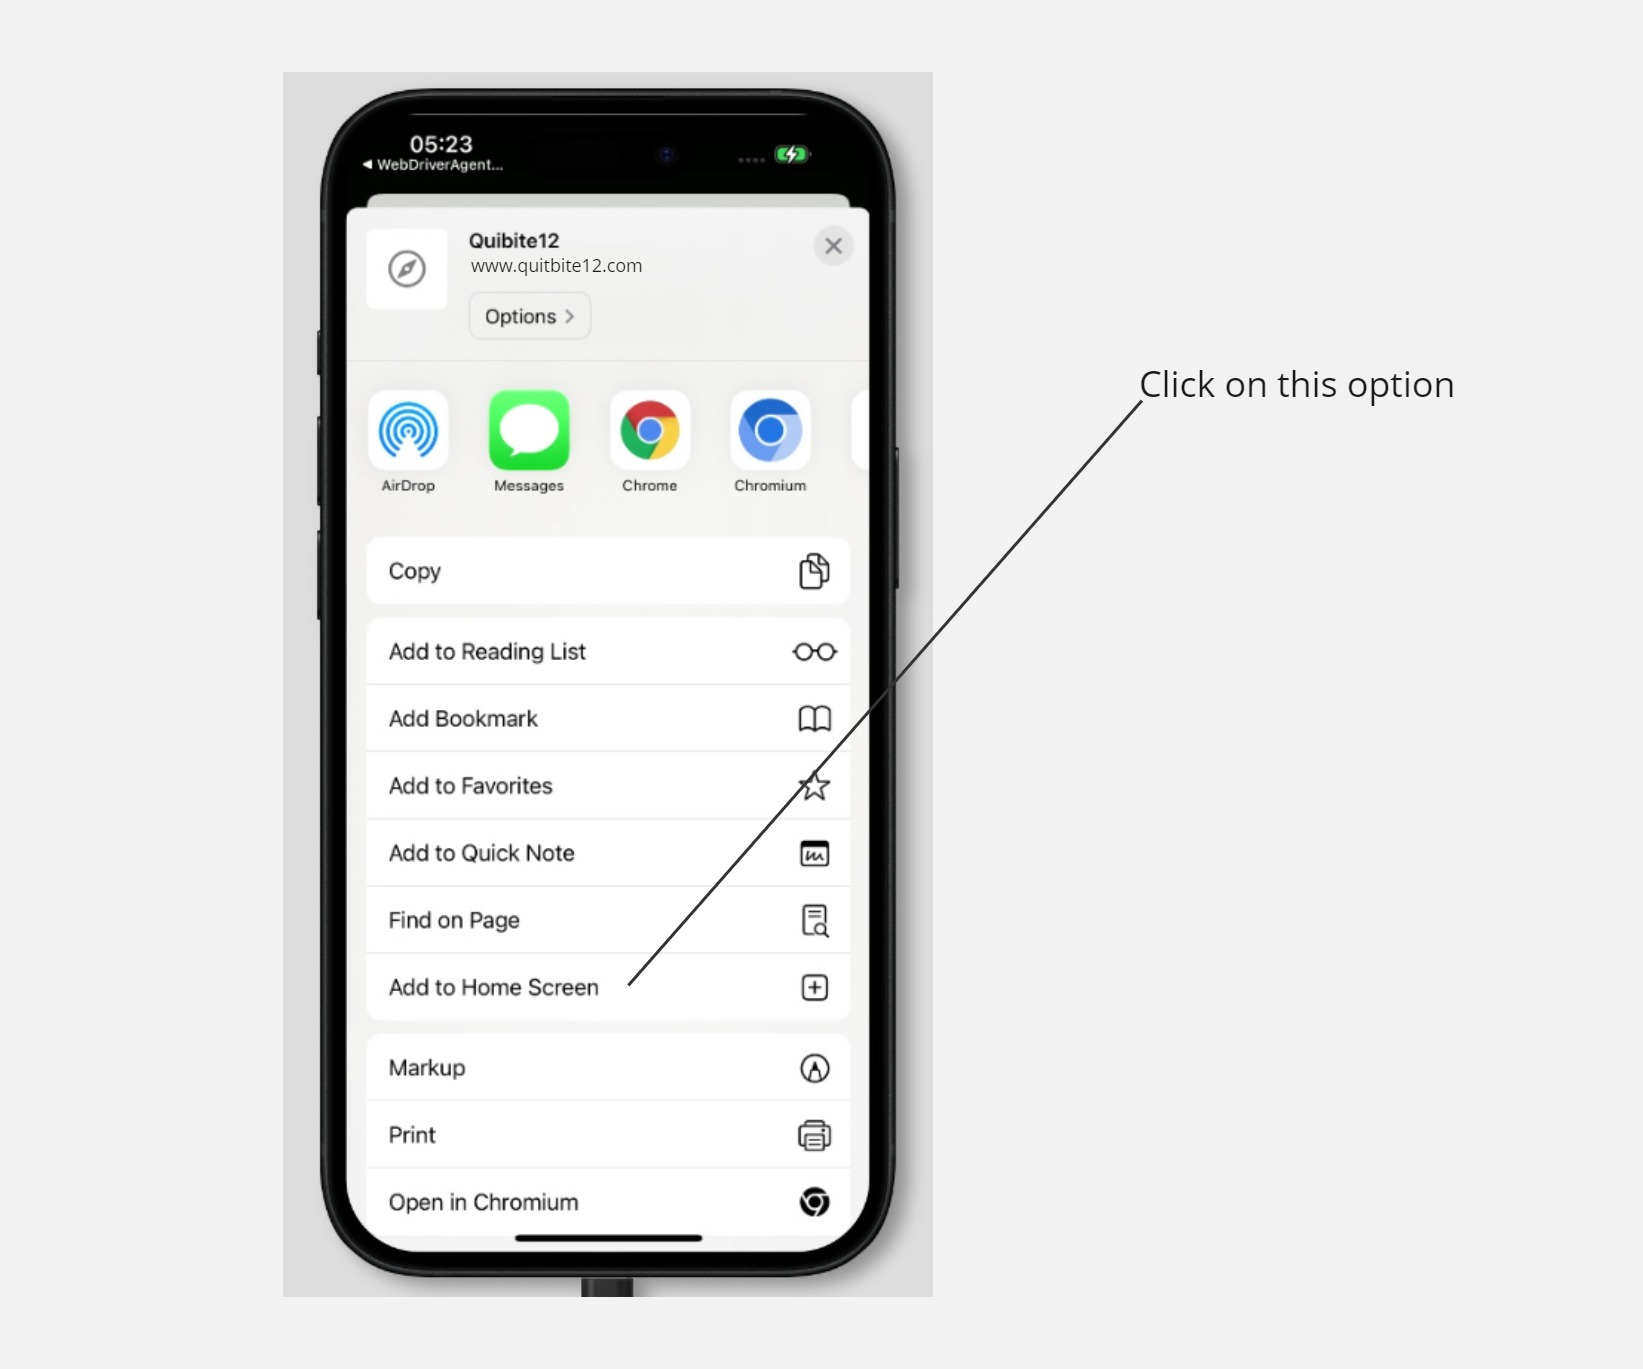
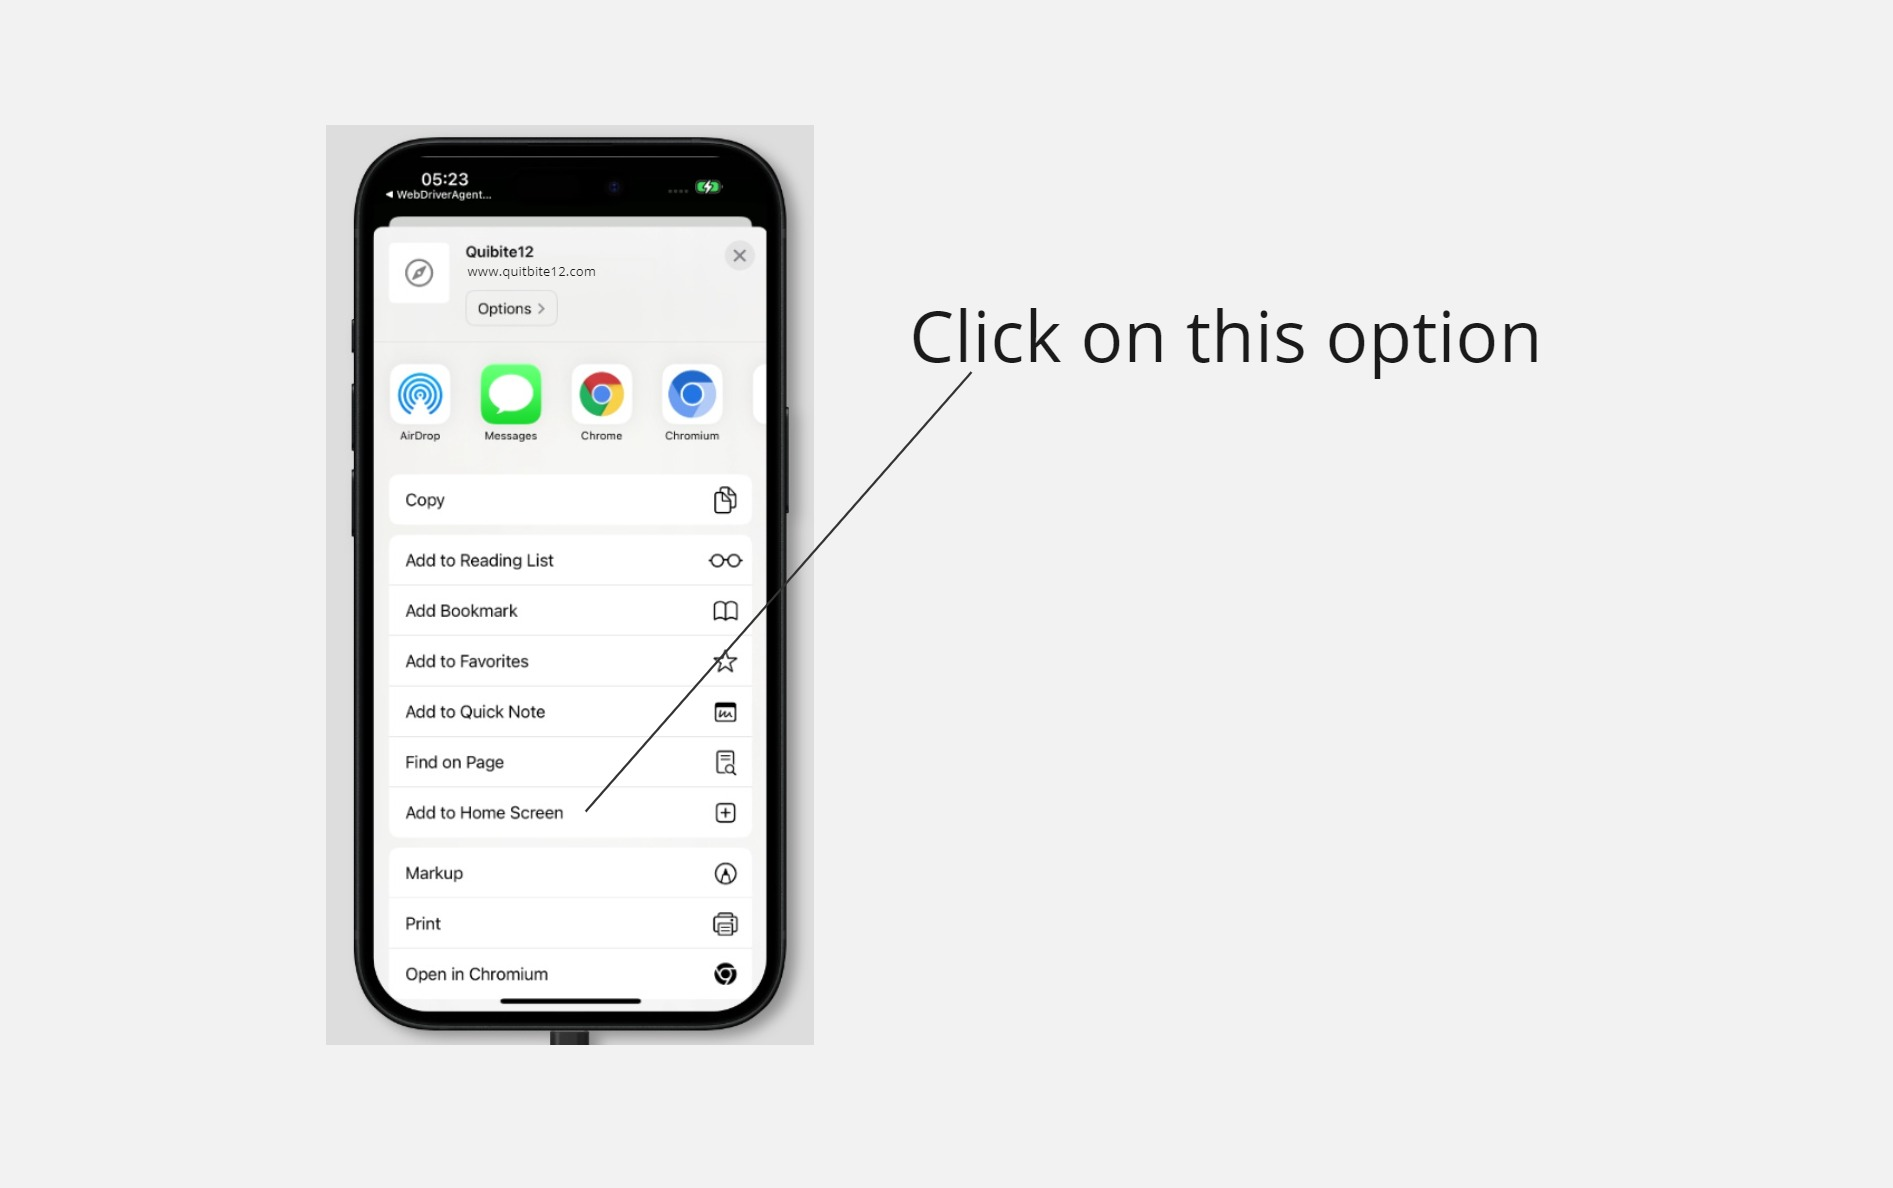
Step images size adjust and styling

Changed region(s): [[0.1862, 0.0623, 0.8691, 0.9655], [0.4656, 0.5606, 0.4967, 0.6229], [0.4656, 0.4672, 0.4967, 0.4983]]

diff --git a/src/app/[locale]/install/page.js b/src/app/[locale]/install/page.js
@@ -1,15 +1,10 @@
 import Image from "next/image";
 import img1 from "../step1.jpg";
+import img2 from "../step2.jpg";
+import img3 from "../step3.jpg";
 
 export default function Install() {
-  // const imageUrls = [
-  //     '../'
-  //     '/images/image1.jpg',
-  //     '/images/image2.jpg',
-  //     '/images/image3.jpg',
-  //   ];
-
-  const imageUrls = [img1];
+  const imageUrls = [img1, img2, img3];
 
   return (
     <div className="image-list">

diff --git a/src/app/[locale]/globals.css b/src/app/[locale]/globals.css
@@ -137,3 +137,15 @@ p {
   flex-direction: column;
   padding: 1rem;
 }
+
+.image-list {
+  margin-top: 20px;
+  display: flex;
+  flex-direction: column;
+  gap: 20px;
+}
+
+.image-item {
+  border: 2px groove #4f4747;
+  box-shadow: 0 6px 8px rgba(0, 0, 0, 0.2);
+}
